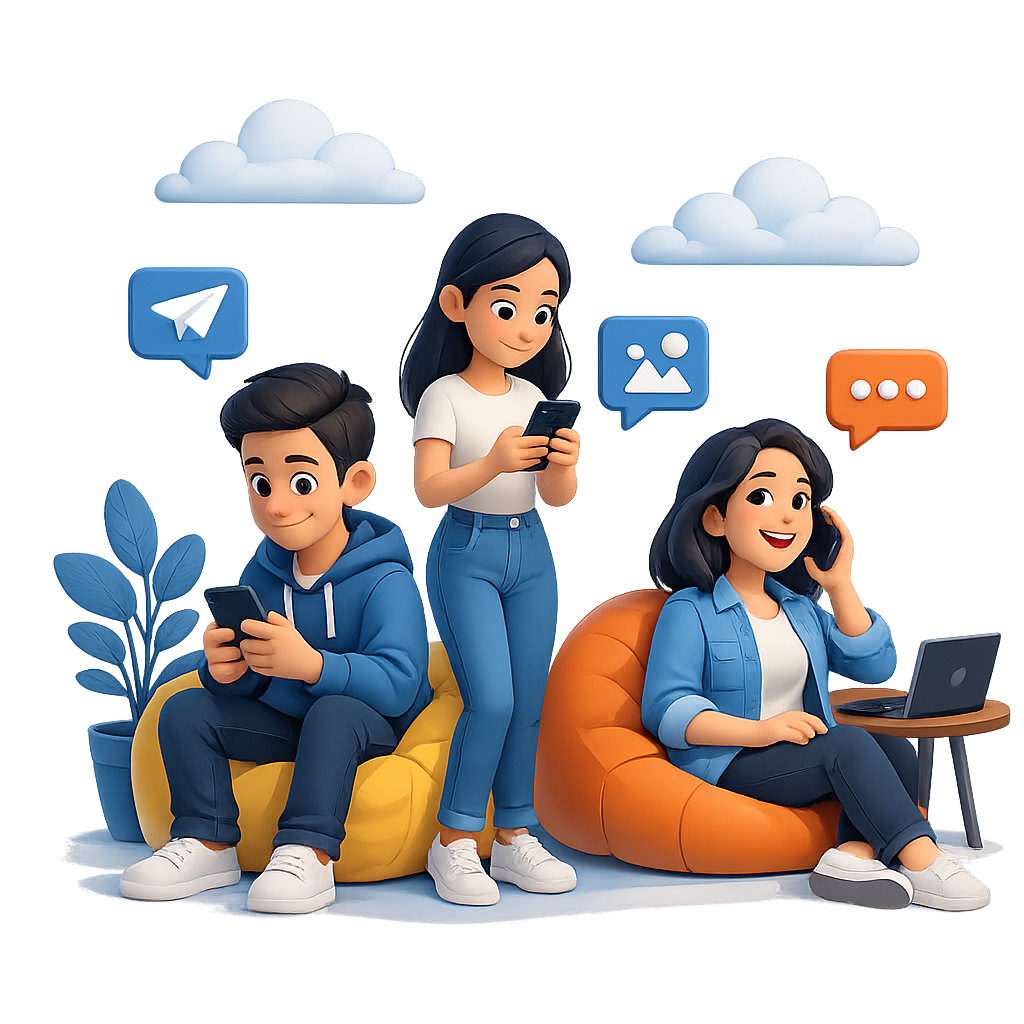
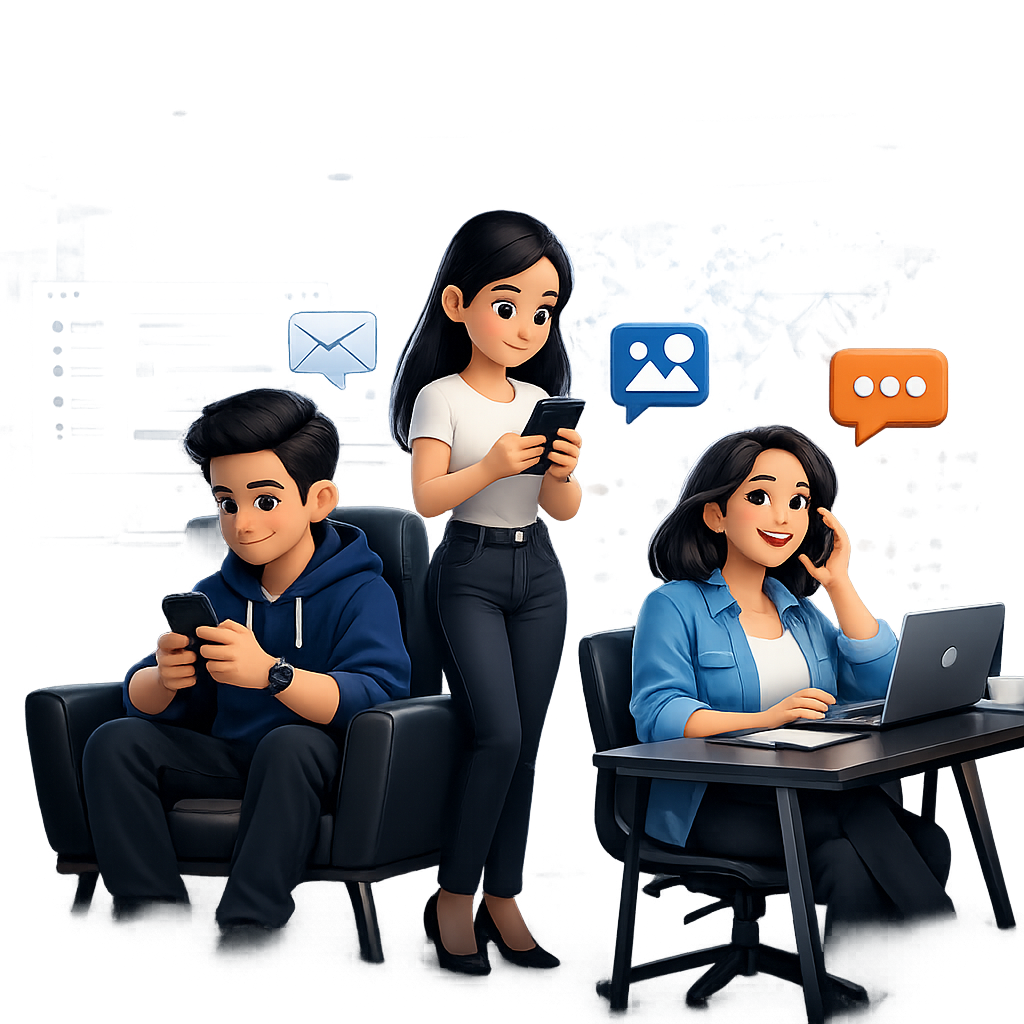
updated images

diff --git a/backend/src/lib/Utils.js b/backend/src/lib/Utils.js
@@ -12,9 +12,9 @@ export const generateToken = (id,res) => {
 
         const cookieOptions = {
             httpOnly: true,
-            secure: isProduction, // Only use secure in production (HTTPS)
+            secure: true, // Only use secure in production (HTTPS)
             maxAge: 10 * 24 * 60 * 60 * 1000, // 10 days
-            sameSite: isProduction ? "none" : "lax", // Use 'lax' for development, 'none' for production cross-site
+            sameSite: "none", // Use 'lax' for development, 'none' for production cross-site
             path: '/',
             domain: undefined // Let browser handle domain
         };

diff --git a/frontend/src/components/ChatContainer.jsx b/frontend/src/components/ChatContainer.jsx
@@ -50,7 +50,7 @@ function ChatContainer() {
                   className={`chat-bubble relative ${
                     msg.senderId === authUser._id
                       ? "bg-cyan-600 text-white"
-                      : "bg-slate-800 text-slate-200"
+                      : "bg-slate-800 dark:bg-slate-800 text-white dark:text-slate-200"
                   } max-w-[78vw] md:max-w-[70%] break-words whitespace-pre-wrap p-3 md:p-4 text-sm md:text-base rounded-xl md:rounded-2xl`}
                 >
                   {msg.image && (
